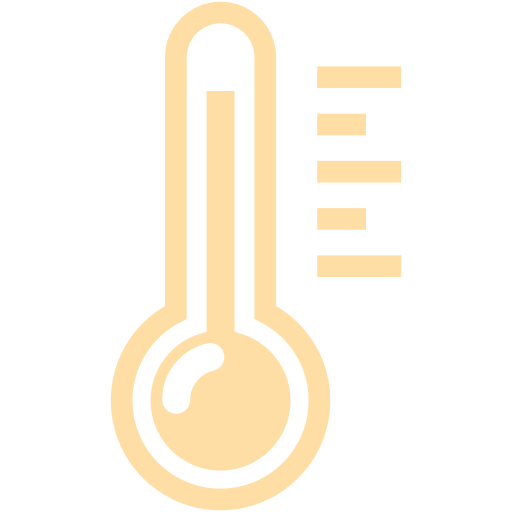
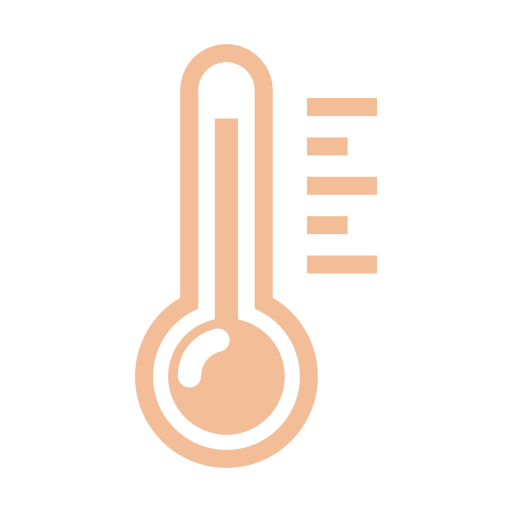
RWD v2

Changed region(s): [[0.2188, 0.0, 0.6562, 1.0], [0.5938, 0.125, 0.7812, 0.4688], [0.5938, 0.5, 0.7812, 0.5625]]

diff --git a/src/App.css b/src/App.css
@@ -1,18 +1,18 @@
 :root {
   --blue: linear-gradient(215.21deg, #50647C 12.73%, #4F4E4D 66.22%, #484037 85.32%);
   /* --white: #EEECEA; */
-  --white: #e4e4e4;
+  --white: #DBD5D4;
   --showblue: rgba(0, 0, 0, 0.36); 
-  --showwhile: rgba(250, 250, 250, 0.6);
+  --showwhile: rgba(255, 255, 255, 0.32);
   --txtwhite: #8A8B8C;
   --txtblue: #FFFFFF;
   --Ltitle: #9F9F9F;
-  --BTtitle: #FFDEA5;
-  --BHtitle: #A3BBD6;
-  --LTChart: #ECDBC8;
-  --LHChart: #C1D9EA;
-  --BTChart: #FFDEA5;
-  --BHChart: #A3BBD6;
+  --BTtitle: #F3BE97;
+  --BHtitle: #898DAE;
+  --LTChart: #F3BE97;
+  --LHChart: #898DAE;
+  --BTChart: #F3BE97;
+  --BHChart: #B3B8E2;
 }
 
 body.light {
@@ -22,11 +22,11 @@ body.light {
   --showbg: var(--showwhile);
   --Ttitle: var(--Ltitle);
   --Htitle: var(--Ltitle);
-  --Timage: url("./image/heat_light.png");
-  --Himage: url("./image/humidity_light.png");
-  --TChart: var(--txtwhite);
+  --Timage: url("./image/heat.png");
+  --Himage: url("./image/humidity.png");
+  --TChart: var(--BTtitle);
   --HChart: var(--LHChart);
-  --HYChart: var(--txtwhite);
+  --HYChart: var(--LHChart);
 }
 
 body.dark {
@@ -50,7 +50,7 @@ body.dark {
 #chartX{
   stroke: var(--text-color);
   fill: var(--text-color);
-  stroke-width: 1;
+  stroke-width: 0.3;
 }
 
 #chartYt{
@@ -204,12 +204,12 @@ body.dark {
 
 .content h4:nth-child(1) {
 	color: transparent;
-	-webkit-text-stroke: 3px #FFDEA5;
+	-webkit-text-stroke: 3px #F3BE97;
   /* -webkit-text-stroke: 2px #8338ec; */
 }
 
 .content h4:nth-child(2) {
-	color: #adc0d5;
+	color: #A3BBD6;
   /* color: #c19bf5; */
 	animation: animate 4s ease-in-out infinite;
 }

diff --git a/src/App.js b/src/App.js
@@ -16,7 +16,7 @@ class App extends React.Component {
 		};
 	}
 	componentDidMount() {
-		// fetch("https://pi-backend-bt5mbx1ej-conmou.vercel.app/min")
+		//fetch("https://pi-backend-bt5mbx1ej-conmou.vercel.app/min")
 		fetch("http://localhost:5001/min")
 			.then(res => res.json())
 			.then(json => {
@@ -92,7 +92,7 @@ class App extends React.Component {
 									<YAxis id='chartYh' unit='％' yAxisId="right-axis" dataKey='hunidity' domain={[0, 100]} orientation='right'/>
 									<Tooltip separator='=' />
 									<Legend />
-									<Bar id='chartB' yAxisId="left-axis" dataKey="temp" barSize={30} fill='#ECDBC8'/>
+									<Bar id='chartB' yAxisId="left-axis" dataKey="temp" barSize={30} fill='#F3BE97'/>
 									{/* <Bar id='chartB' yAxisId="left-axis" dataKey="temp" barSize={30} fill='#FFDEA5'/> */}
 									<Line id='chartL' yAxisId="right-axis" type="monotone" dataKey="hunidity" strokeWidth={4}/>
 								</ComposedChart>
